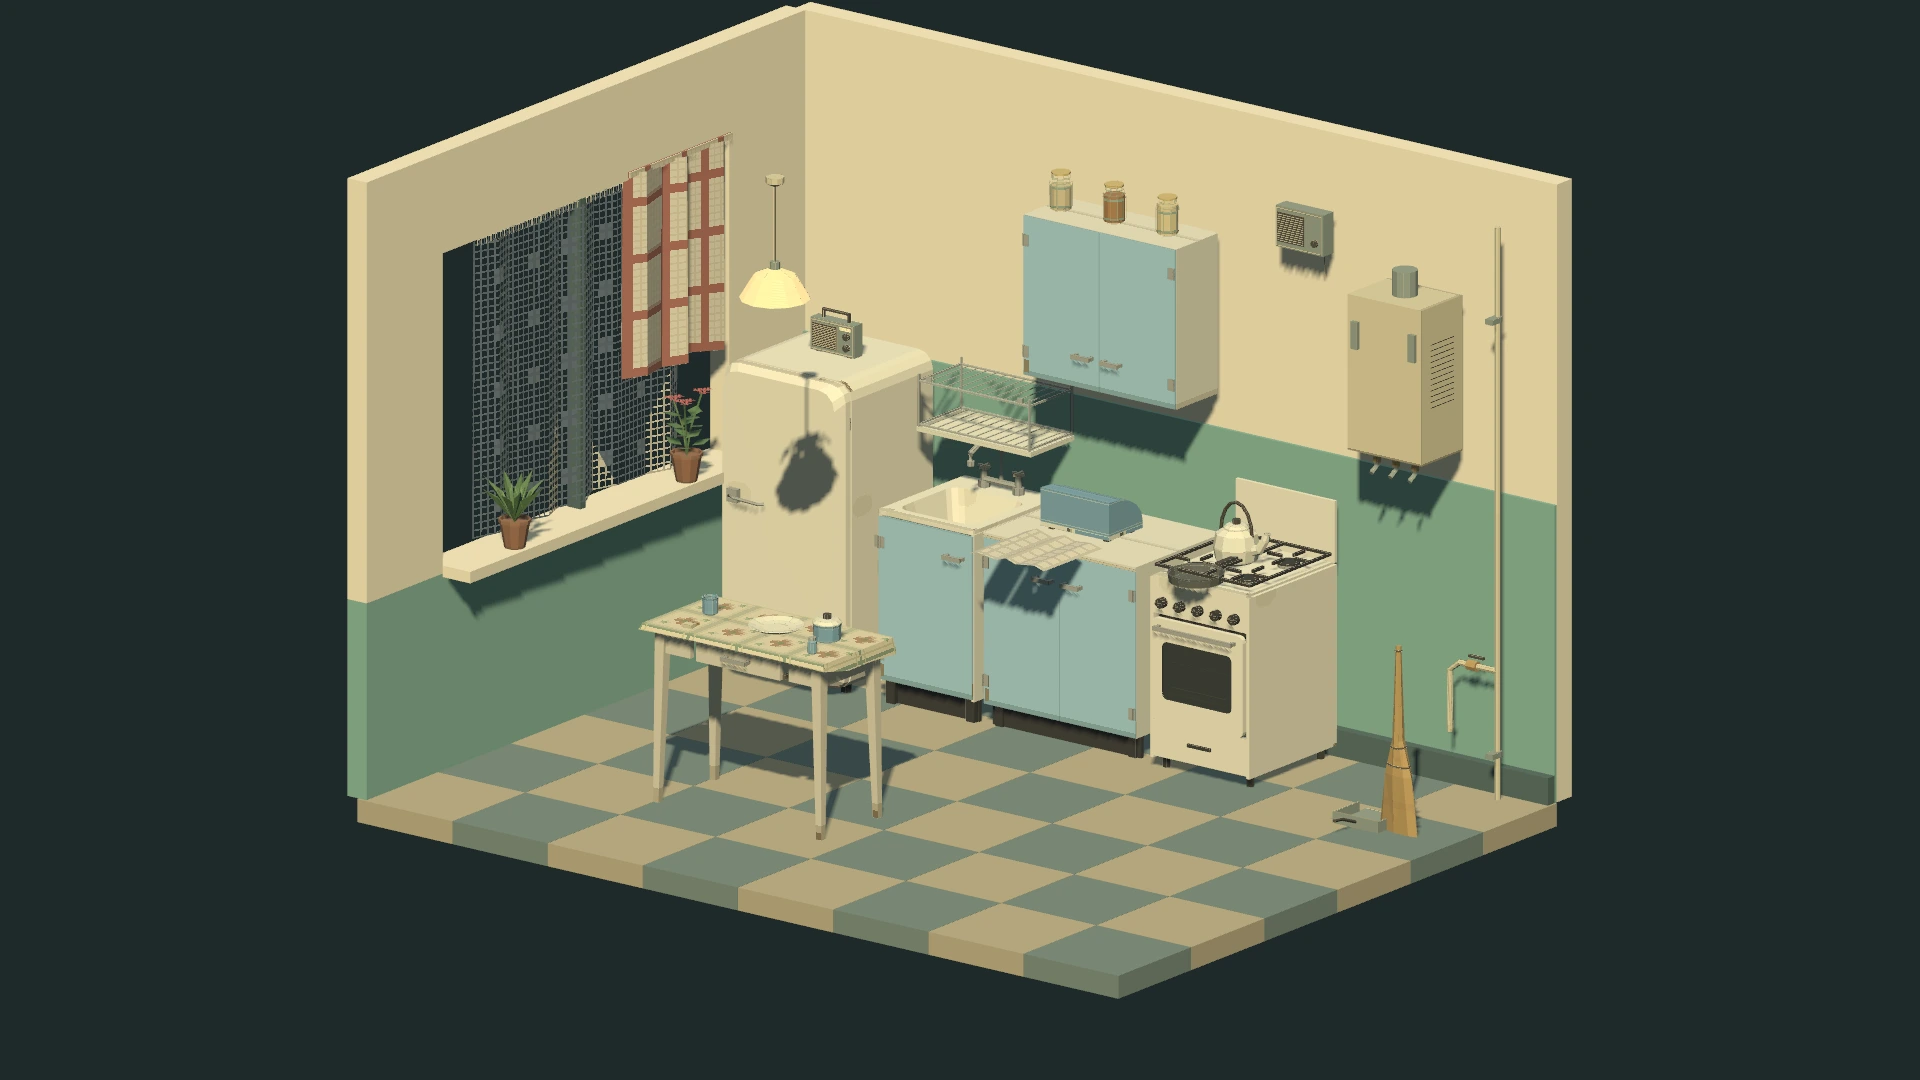
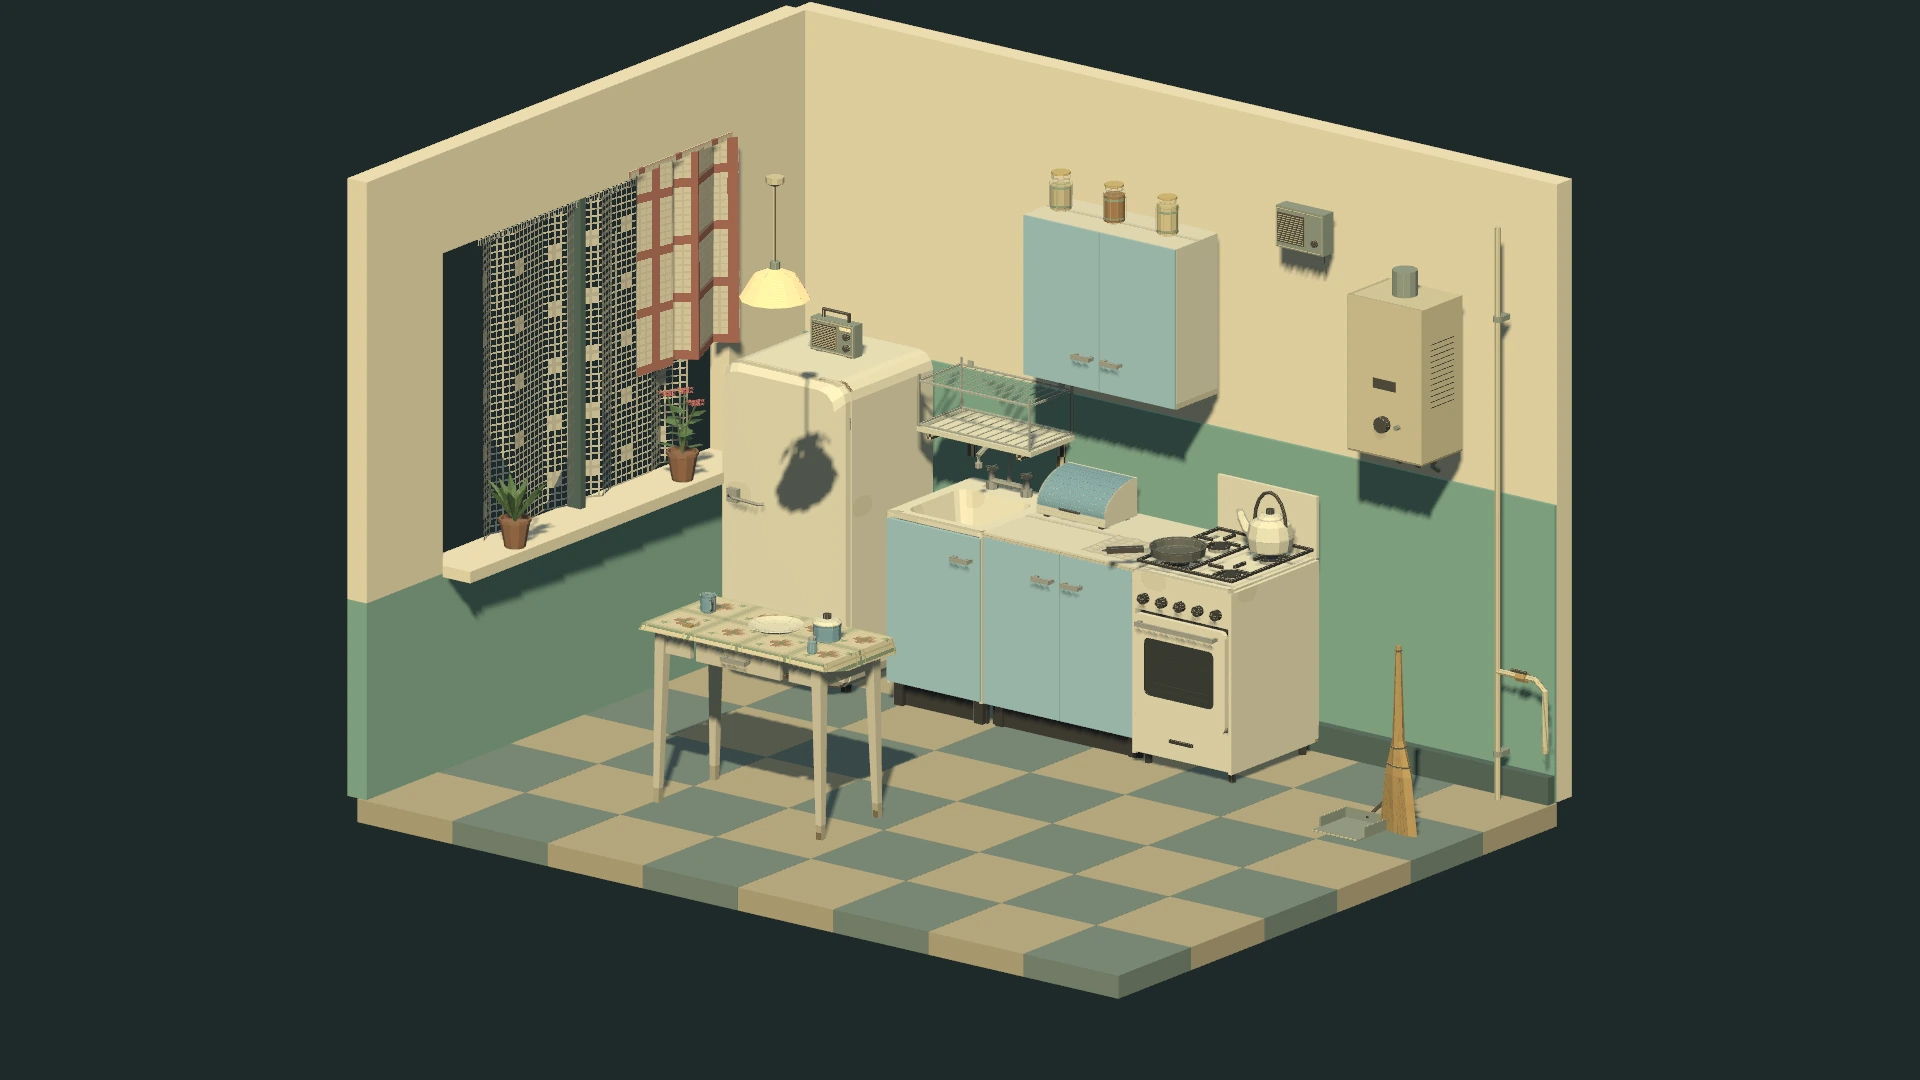
Update Retro Kitchen previews after model and staging fixes

diff --git a/app/(en)/assets/page.tsx b/app/(en)/assets/page.tsx
@@ -4,6 +4,8 @@ import Link from "next/link";
 import { links } from "../../_content/profile";
 import styles from "./assets.module.css";
 
+const sampleUrl = (file: string) => `/assets/retro-kitchen/${file}.webp?v=20261107-model-fix`;
+
 export const metadata: Metadata = {
   title: "maratg2 — Low-poly props for Unity",
   description: "Low-poly 3D props by Marat Gazizulin. Explore Retro Kitchen, a collection of kitchen appliances, furniture and everyday details for Unity URP. Work samples and contact.",
@@ -14,7 +16,7 @@ export const metadata: Metadata = {
     url: "https://maratg2.ru/assets",
     type: "website",
     locale: "en_US",
-    images: [{ url: "https://maratg2.ru/assets/retro-kitchen/kitchen.webp", width: 1920, height: 1080, alt: "Retro Kitchen demo scene rendered in Unity" }],
+    images: [{ url: `https://maratg2.ru${sampleUrl("kitchen")}`, width: 1920, height: 1080, alt: "Retro Kitchen demo scene rendered in Unity" }],
   },
 };
 
@@ -32,7 +34,7 @@ function Arrow() {
 }
 
 function WorkSample({ file, alt, caption, large = false }: { file: string; alt: string; caption: string; large?: boolean }) {
-  const src = `/assets/retro-kitchen/${file}.webp`;
+  const src = sampleUrl(file);
   return (
     <figure className={styles.sample}>
       <a href={src} target="_blank" rel="noopener noreferrer" aria-label={`View ${caption.toLowerCase()} at full size (opens in a new tab)`}>
@@ -54,7 +56,7 @@ export default function AssetsPage() {
           <a className={styles.primary} href="#retro-kitchen">Explore the first pack <Arrow /></a>
         </div>
         <figure className={styles.heroFigure}>
-          <Image src="/assets/retro-kitchen/kitchen.webp" alt="An isometric retro kitchen with pale blue cabinets, a cream refrigerator and stove, a patterned tablecloth and household props." width={1920} height={1080} sizes="(max-width: 900px) 100vw, 60vw" priority />
+          <Image src={sampleUrl("kitchen")} alt="An isometric retro kitchen with pale blue cabinets, a cream refrigerator and stove, a patterned tablecloth and household props." width={1920} height={1080} sizes="(max-width: 900px) 100vw, 60vw" priority />
           <figcaption>Retro Kitchen / Unity scene render</figcaption>
         </figure>
       </section>
